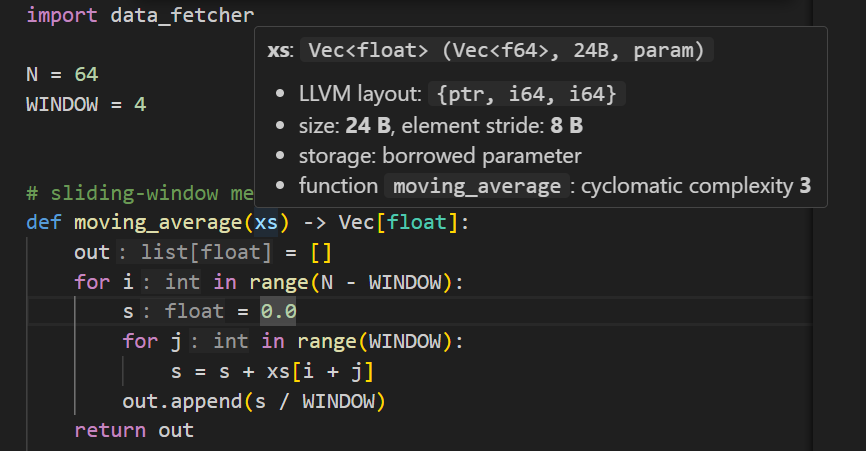
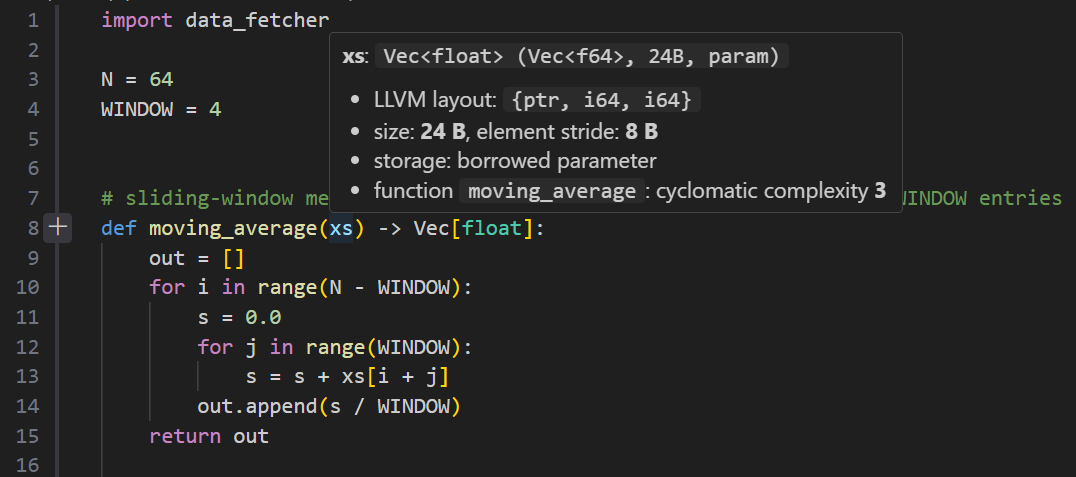
site & vscode: flat 3-circle Venn hero, SEO/OG metadata, LSP hover asset, and #DCDCAA function highlight

diff --git a/site/index.html b/site/index.html
@@ -10,6 +10,13 @@
     name="description"
     content="Pa Language — The AI-Native Systems Language. Written by AI, auditable by humans, compiled to native C++ speed with two-way Python interop, deterministic JSON diagnostics, and flat RAII memory."
   />
+  <link rel="canonical" href="https://palang.dev/" />
+  <meta property="og:type" content="website" />
+  <meta property="og:title" content="Pa Language — The AI-Native Systems Language" />
+  <meta property="og:description" content="Written by AI, auditable by humans, compiled straight to native C++ speed with zero-copy Python interop." />
+  <meta property="og:url" content="https://palang.dev/" />
+  <meta property="og:image" content="https://palang.dev/Pa.png" />
+  <meta name="twitter:card" content="summary" />
 
   <!-- Fonts: Inter + JetBrains Mono -->
   <link rel="preconnect" href="https://fonts.googleapis.com" />
@@ -251,76 +258,50 @@
             </div>
           </div>
 
-          <!-- Right Column: AI-Native Closed-Loop SVG Diagram -->
+          <!-- Right Column: Minimalist 3-Circle Venn Diagram -->
           <div class="lg:col-span-7 w-full">
             <div class="bg-surface border hairline rounded-md overflow-hidden">
               <!-- Card Header -->
               <div class="flex items-center justify-between border-b hairline bg-canvas px-4 py-2.5 font-mono text-[11px]">
-                <span class="text-ink-primary font-semibold tracking-wider">AI-NATIVE EXECUTION LOOP</span>
-                <span class="text-accent">1-shot · 0 retry waste</span>
+                <span class="text-ink-primary font-semibold tracking-wider">DESIGN INTERSECTION</span>
+                <span class="text-ink-muted">AI-Native · Human-Auditable · Native Speed</span>
               </div>
 
-              <!-- Vector Closed-Loop Diagram -->
-              <div class="p-4 sm:p-6 bg-[#0B0B0D]">
+              <!-- Pure Flat Wireframe 3-Circle Venn SVG (Zero Gradients, Zero Glows) -->
+              <div class="px-4 py-3 sm:px-6 sm:py-4 bg-[#0B0B0D]">
                 <svg
-                  viewBox="0 0 640 380"
+                  viewBox="0 0 640 448"
                   fill="none"
                   xmlns="http://www.w3.org/2000/svg"
                   class="w-full h-auto block"
                   role="img"
-                  aria-label="Pa AI-Native Execution Loop: Prompt and Skill, JSON Repair, Human Audit, and Native .so"
+                  aria-label="Pa 3-Circle Venn Diagram: AI-Native, Human-Auditable, and Native Speed converging at Pa"
                 >
-                  <defs>
-                    <radialGradient id="loop-glow" cx="50%" cy="50%" r="50%">
-                      <stop offset="0%" stop-color="#C4B5FD" stop-opacity="0.11" />
-                      <stop offset="65%" stop-color="#C4B5FD" stop-opacity="0.03" />
-                      <stop offset="100%" stop-color="#C4B5FD" stop-opacity="0" />
-                    </radialGradient>
-                    <marker id="chev-accent" viewBox="0 0 8 8" refX="6" refY="4" markerWidth="5.5" markerHeight="5.5" orient="auto">
-                      <path d="M 1.5 1.2 L 5.8 4 L 1.5 6.8" fill="none" stroke="#C4B5FD" stroke-width="1.3" stroke-linecap="round" stroke-linejoin="round" />
-                    </marker>
-                    <marker id="chev-teal" viewBox="0 0 8 8" refX="6" refY="4" markerWidth="5.5" markerHeight="5.5" orient="auto">
-                      <path d="M 1.5 1.2 L 5.8 4 L 1.5 6.8" fill="none" stroke="#5EEAD4" stroke-width="1.3" stroke-linecap="round" stroke-linejoin="round" />
-                    </marker>
-                  </defs>
+                  <!-- Three Intersecting Circles: 1px solid stroke, flat subtle fill -->
+                  <circle cx="247" cy="182" r="126" fill="rgba(255,255,255,0.02)" stroke="#C4B5FD" stroke-width="1" />
+                  <circle cx="393" cy="182" r="126" fill="rgba(255,255,255,0.02)" stroke="rgba(255,255,255,0.16)" stroke-width="1" />
+                  <circle cx="320" cy="308" r="126" fill="rgba(255,255,255,0.02)" stroke="rgba(255,255,255,0.16)" stroke-width="1" />
 
-                  <!-- Subtle Ambient Center Glow & Typographic Watermark (No Box) -->
-                  <circle cx="320" cy="190" r="96" fill="url(#loop-glow)" />
-                  <text x="320" y="186" text-anchor="middle" fill="#E4E4E7" fill-opacity="0.72" font-family="JetBrains Mono, monospace" font-size="11.5" font-weight="600" letter-spacing="3">1-SHOT LOOP</text>
-                  <text x="320" y="204" text-anchor="middle" fill="#71717A" font-family="JetBrains Mono, monospace" font-size="9" letter-spacing="2">0 RETRY WASTE</text>
+                  <!-- Top-Left Circle Label: AI-Native -->
+                  <text x="195" y="156" text-anchor="middle" fill="#FAFAFA" font-family="Inter, sans-serif" font-size="13.5" font-weight="600" letter-spacing="-0.01em">AI-Native</text>
+                  <text x="195" y="175" text-anchor="middle" fill="#A1A1AA" font-family="JetBrains Mono, monospace" font-size="9.5">pa-coder · 1-shot JSON</text>
 
-                  <!-- Fine 1.2px Clockwise Orbital Tracks + Terminal Dots -->
-                  <path d="M 418 52 Q 528 52 528 155" stroke="#C4B5FD" stroke-opacity="0.7" stroke-width="1.2" marker-end="url(#chev-accent)" />
-                  <circle cx="418" cy="52" r="2.2" fill="#C4B5FD" fill-opacity="0.85" />
+                  <!-- Top-Right Circle Label: Human-Auditable -->
+                  <text x="445" y="156" text-anchor="middle" fill="#FAFAFA" font-family="Inter, sans-serif" font-size="13.5" font-weight="600" letter-spacing="-0.01em">Human-Auditable</text>
+                  <text x="445" y="175" text-anchor="middle" fill="#A1A1AA" font-family="JetBrains Mono, monospace" font-size="9.5">ast.parse · flat RAII</text>
 
-                  <path d="M 528 222 Q 528 328 421 328" stroke="#C4B5FD" stroke-opacity="0.45" stroke-width="1.2" stroke-dasharray="3 4" marker-end="url(#chev-accent)" />
-                  <circle cx="528" cy="222" r="2.2" fill="#C4B5FD" fill-opacity="0.7" />
+                  <!-- Bottom Circle Label: Native Speed -->
+                  <text x="320" y="356" text-anchor="middle" fill="#FAFAFA" font-family="Inter, sans-serif" font-size="13.5" font-weight="600" letter-spacing="-0.01em">Native Speed</text>
+                  <text x="320" y="375" text-anchor="middle" fill="#A1A1AA" font-family="JetBrains Mono, monospace" font-size="9.5">LLVM -O2 · direct .so</text>
 
-                  <path d="M 222 328 Q 112 328 112 225" stroke="#5EEAD4" stroke-opacity="0.45" stroke-width="1.2" stroke-dasharray="3 4" marker-end="url(#chev-teal)" />
-                  <circle cx="222" cy="328" r="2.2" fill="#5EEAD4" fill-opacity="0.7" />
+                  <!-- Pairwise Intersection Labels (10px muted plain text) -->
+                  <text x="320" y="136" text-anchor="middle" fill="#71717A" font-family="JetBrains Mono, monospace" font-size="10">0-to-1 build</text>
+                  <text x="250" y="266" text-anchor="middle" fill="#71717A" font-family="JetBrains Mono, monospace" font-size="10">zero-copy</text>
+                  <text x="390" y="266" text-anchor="middle" fill="#71717A" font-family="JetBrains Mono, monospace" font-size="10">zero-GC</text>
 
-                  <path d="M 112 158 Q 112 52 219 52" stroke="#5EEAD4" stroke-opacity="0.7" stroke-width="1.2" marker-end="url(#chev-teal)" />
-                  <circle cx="112" cy="158" r="2.2" fill="#5EEAD4" fill-opacity="0.85" />
-
-                  <!-- Node 01: Top (188x56) -->
-                  <rect x="226" y="24" width="188" height="56" rx="6" fill="#111113" stroke="rgba(255,255,255,0.10)" stroke-width="1" />
-                  <text x="320" y="47" text-anchor="middle" fill="#FAFAFA" font-family="JetBrains Mono, monospace" font-size="11.5" font-weight="600">01 · Prompt + Skill</text>
-                  <text x="320" y="65" text-anchor="middle" fill="#A1A1AA" font-family="JetBrains Mono, monospace" font-size="10">pa-coder</text>
-
-                  <!-- Node 02: Right (188x56, Purple Highlight) -->
-                  <rect x="434" y="162" width="188" height="56" rx="6" fill="#111113" stroke="#C4B5FD" stroke-width="1.25" />
-                  <text x="528" y="185" text-anchor="middle" fill="#C4B5FD" font-family="JetBrains Mono, monospace" font-size="11.5" font-weight="600">02 · JSON Repair</text>
-                  <text x="528" y="203" text-anchor="middle" fill="#A1A1AA" font-family="JetBrains Mono, monospace" font-size="10">causal_chain + patch</text>
-
-                  <!-- Node 03: Bottom (188x56) -->
-                  <rect x="226" y="300" width="188" height="56" rx="6" fill="#111113" stroke="rgba(255,255,255,0.10)" stroke-width="1" />
-                  <text x="320" y="323" text-anchor="middle" fill="#FAFAFA" font-family="JetBrains Mono, monospace" font-size="11.5" font-weight="600">03 · Human Audit</text>
-                  <text x="320" y="341" text-anchor="middle" fill="#A1A1AA" font-family="JetBrains Mono, monospace" font-size="10">zero-annotation · RAII</text>
-
-                  <!-- Node 04: Left (188x56, Teal Accent) -->
-                  <rect x="18" y="162" width="188" height="56" rx="6" fill="#111113" stroke="rgba(94,234,212,0.55)" stroke-width="1.15" />
-                  <text x="112" y="185" text-anchor="middle" fill="#5EEAD4" font-family="JetBrains Mono, monospace" font-size="11.5" font-weight="600">04 · Native .so</text>
-                  <text x="112" y="203" text-anchor="middle" fill="#A1A1AA" font-family="JetBrains Mono, monospace" font-size="10">LLVM -O2 · direct import</text>
+                  <!-- Center Convergence: Pure Dark Circle + Pa.png Logo -->
+                  <circle cx="320" cy="224" r="32" fill="#09090B" stroke="rgba(255,255,255,0.18)" stroke-width="1" />
+                  <image href="Pa.png" x="300" y="204" width="40" height="40" preserveAspectRatio="xMidYMid meet" />
                 </svg>
               </div>
 

diff --git a/vscode-pa/test/grammar.test.js b/vscode-pa/test/grammar.test.js
@@ -35,7 +35,14 @@ test('manifest registers pa and paw languages, grammars and colours', () => {
   assert.deepStrictEqual(pkg.contributes.languages.map((l) => l.id), ['pa', 'paw']);
   assert.deepStrictEqual(pkg.contributes.grammars.map((g) => g.scopeName), ['source.pa', 'source.paw']);
   const scopes = JSON.stringify(pkg.contributes.configurationDefaults['editor.tokenColorCustomizations']);
-  for (const s of ['support.function.intrinsic.pa', 'entity.name.function.decorator.pa', 'support.type.primitive.pa']) {
+  for (const s of [
+    'source.pa entity.name.function.python',
+    'source.pa meta.function-call.generic.python',
+    'source.paw entity.name.function.python',
+    'support.function.intrinsic.pa',
+    'entity.name.function.decorator.pa',
+    'support.type.primitive.pa',
+  ]) {
     assert.ok(scopes.includes(s), s);
   }
   for (const f of ['syntaxes/pa.tmLanguage.json', 'syntaxes/paw.tmLanguage.json', 'language-configuration.json']) {
